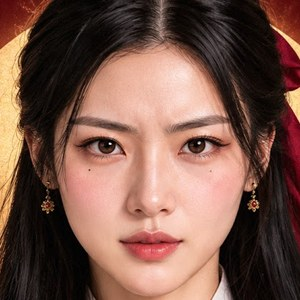
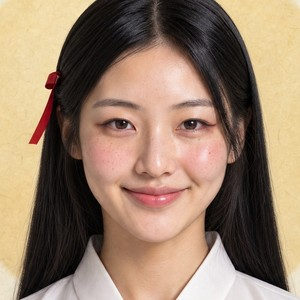
Use the new smiling app portrait of Yeongja
Replace the channel-avatar crop with the user's app portrait, cropped to
300x300 so the face, red ribbon and hanbok collar show in the circle.

Claude-Session: https://claude.ai/code/session_01RqV21N3stmeH9jkkJL7uKz

diff --git a/yeongja-fortune/README.md b/yeongja-fortune/README.md
@@ -19,6 +19,6 @@
 - 휴대폰이 다크 모드일 때만 자동으로 진한 갈색 바탕에 미색 글씨로 바뀌어요.
 
 ## 고치는 곳
-- 영자 그림: `assets/yeongja.jpg` (채널 프로필 사진에서 얼굴 부분을 잘라 씀)
+- 영자 그림: `assets/yeongja.jpg` (앱용 영자 이미지를 300×300으로 잘라 씀)
 - 문구: `fortune.js` 안의 `TEXT`(사자성어·좋은 일·영자 한마디), `CAREFUL`(조심)
 - 채널 주소: `index.html` 안의 `CHANNEL_URL` (구독하기 버튼은 이 주소 끝에 `?sub_confirmation=1`을 붙여 구독 창을 띄워요)
